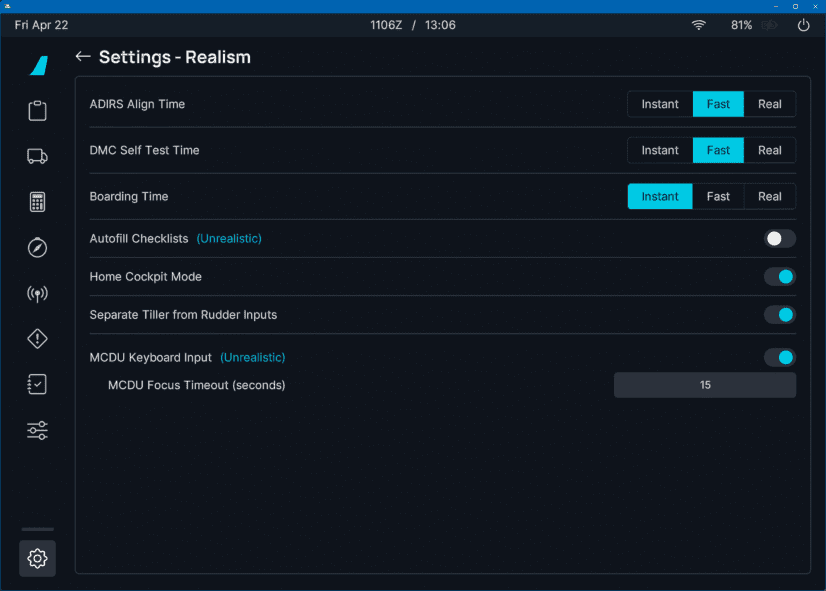
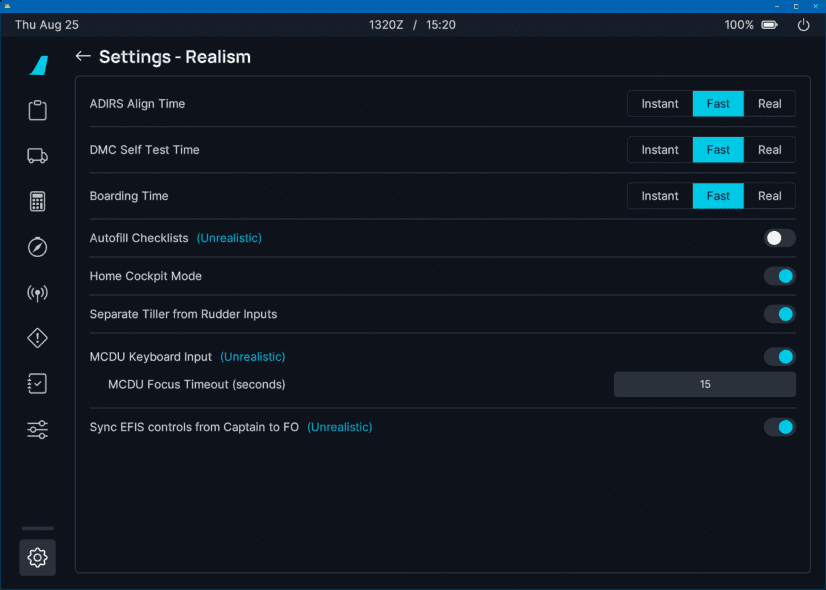
docs: Added EFIS Sync to flyPad3 Realism Settings page and updated screenshot. (#622)

diff --git a/docs/fbw-a32nx/feature-guides/flypados3/settings.md b/docs/fbw-a32nx/feature-guides/flypados3/settings.md
@@ -150,7 +150,6 @@ Settings for simulation aspects of the A32NX aircraft.
 ## Realism
 
 Settings for realism aspects of the A32NX aircraft.
-
 <div style="position: relative;">
     <img src="/fbw-a32nx/assets/flypados3/flypad-settings-realism.png" style="width: 100%; height: auto;" loading="lazy">
     <a href="../dashboard/">   <div class="imagemap" style="position: absolute; left: 1.7%; top:  6.9%; width: 5.8%; height: 7.0%;"><span class="imagemapname">Dashboard</span></div></a>
@@ -192,7 +191,12 @@ Settings for realism aspects of the A32NX aircraft.
     - The timeout feature will automatically deactivate the focus of the MCDU screen after the given amount of seconds.
     - Valid range is 5 - 120 seconds.
     - Setting is only available if MCDU Keyboard Input is enabled.
-
+- Sync EFIS controls between Captain and FO (unrealistic)
+    - When enabled, the EFIS controls will be synchronized between the Captain and FO.
+    - This includes the Flight Director (FD), Landing System (LS) and Baro (STD, QNH and inHg/hPa) controls.
+    - Note: Baro is currently not separated between the Captain and FO and is always synchronized independent of 
+      this setting. 
+  
 ## ATSU/AOC
 
 Settings for integrations with various data and information sources.
